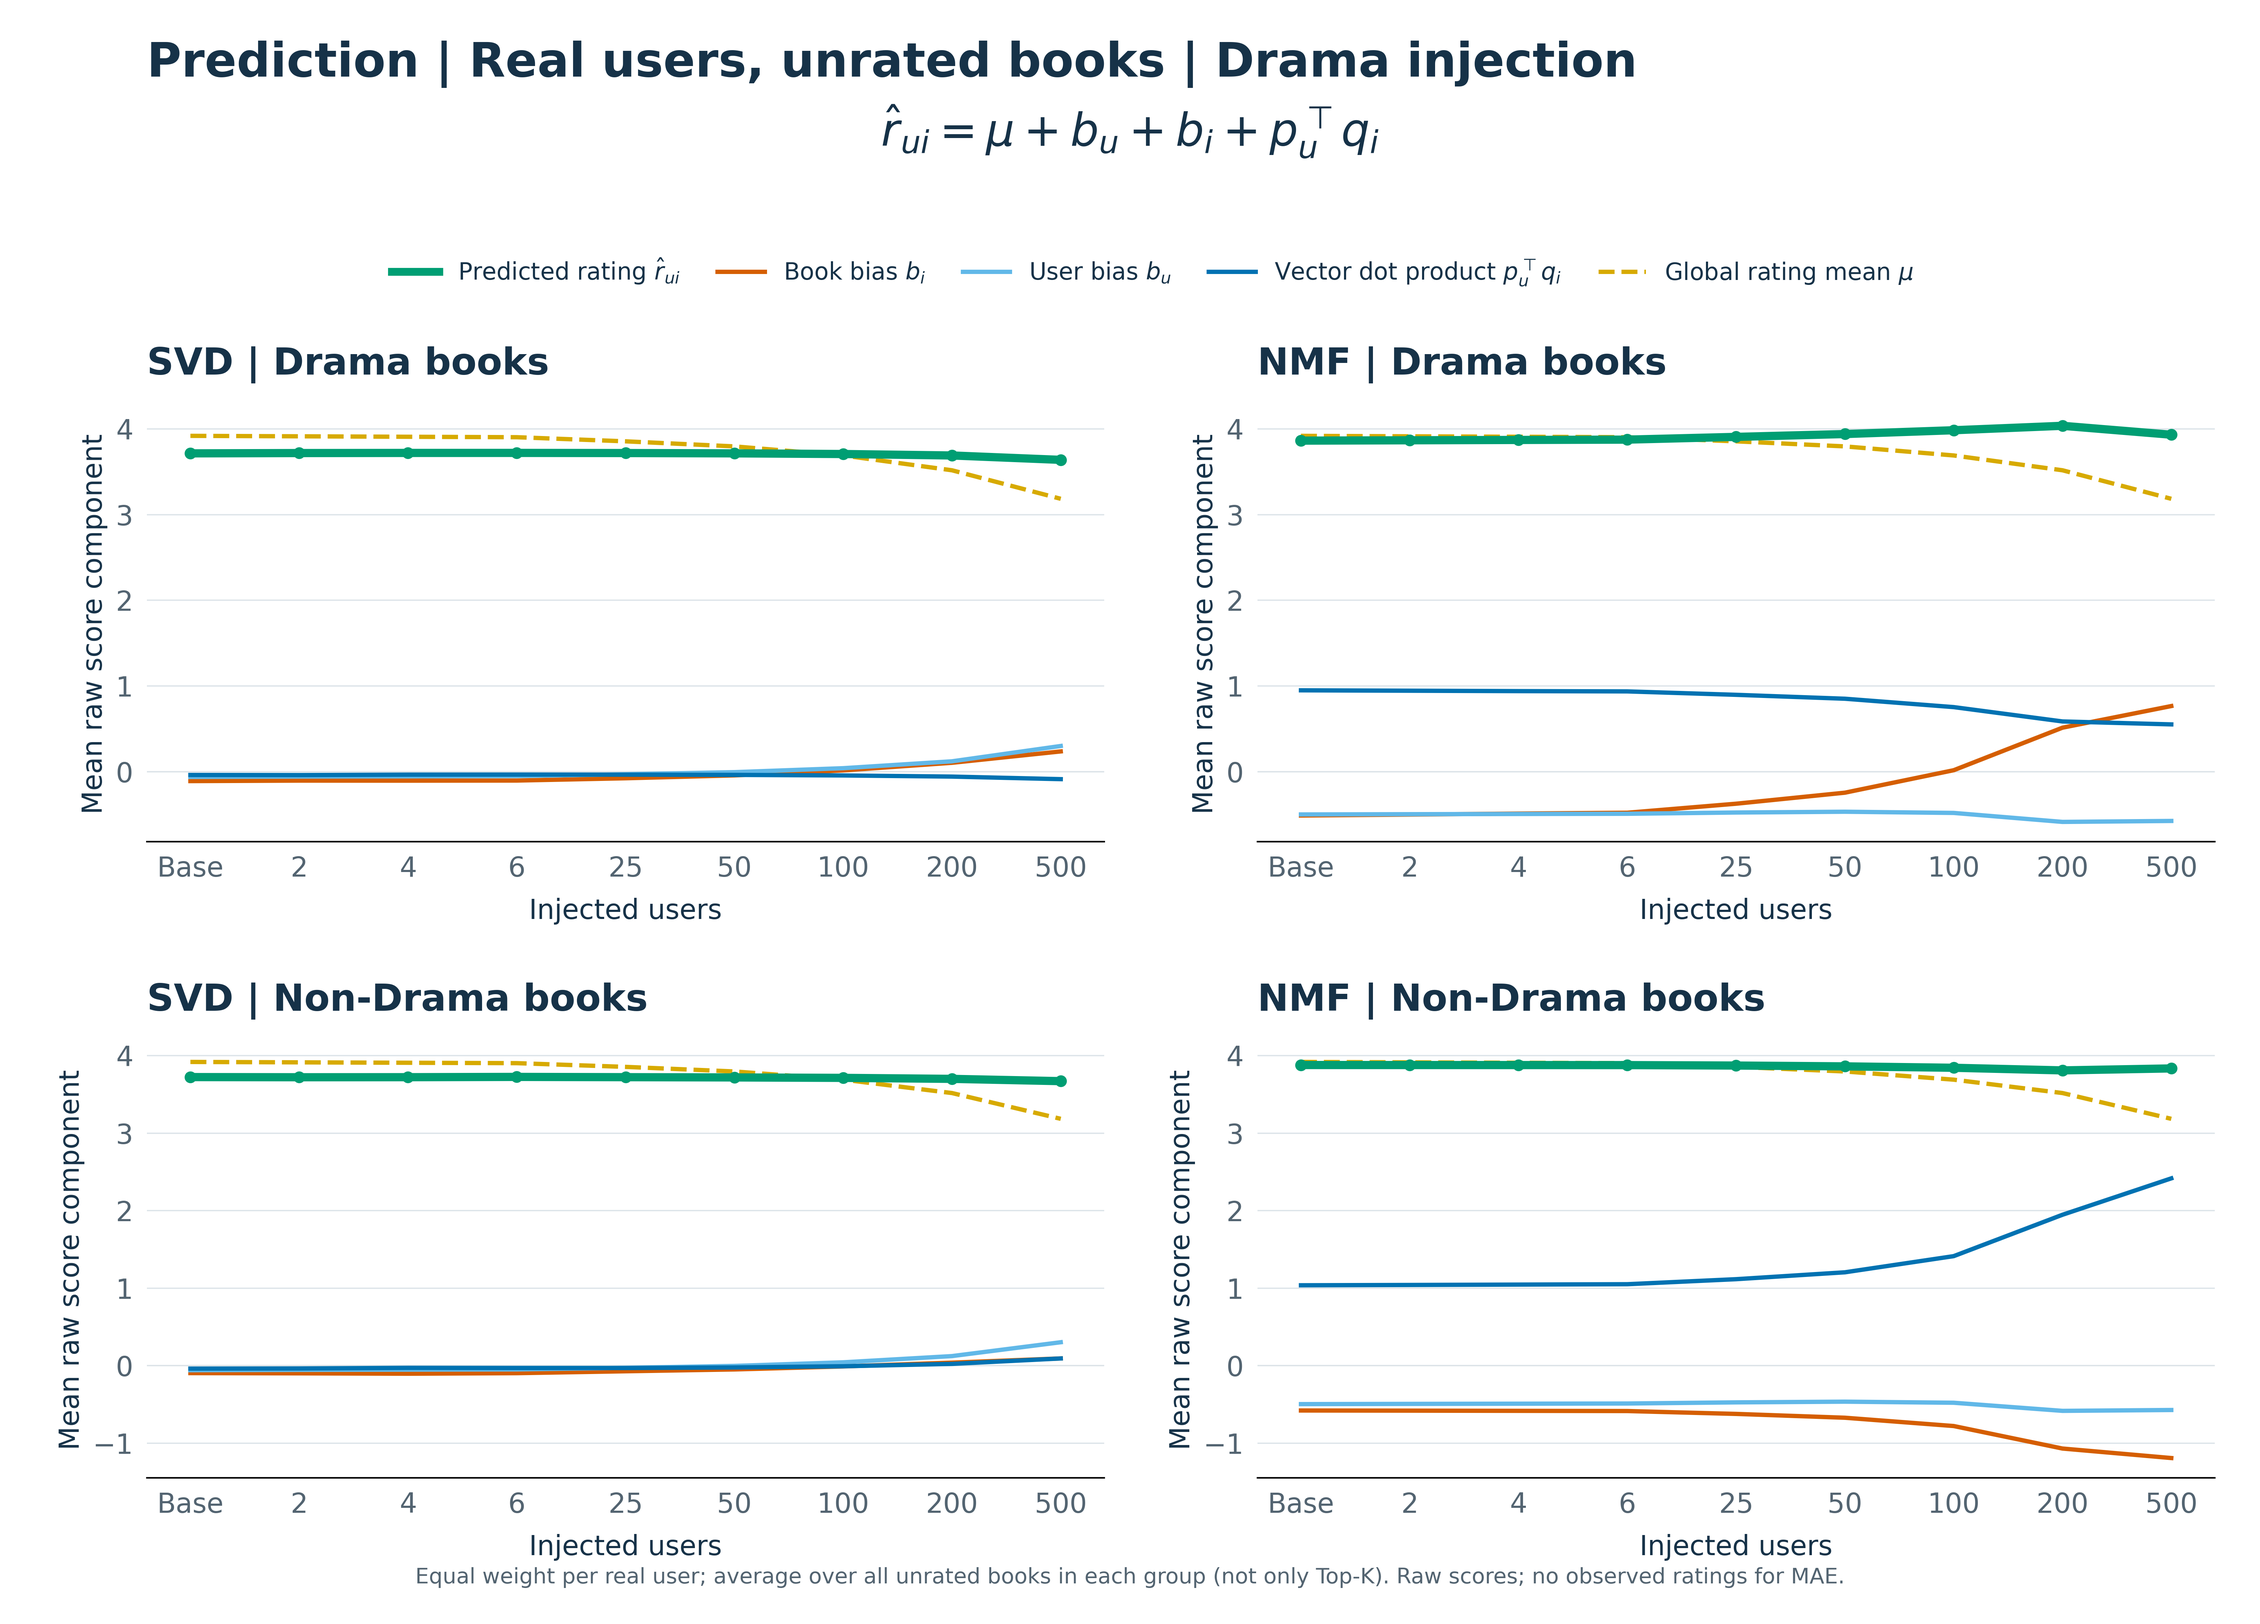
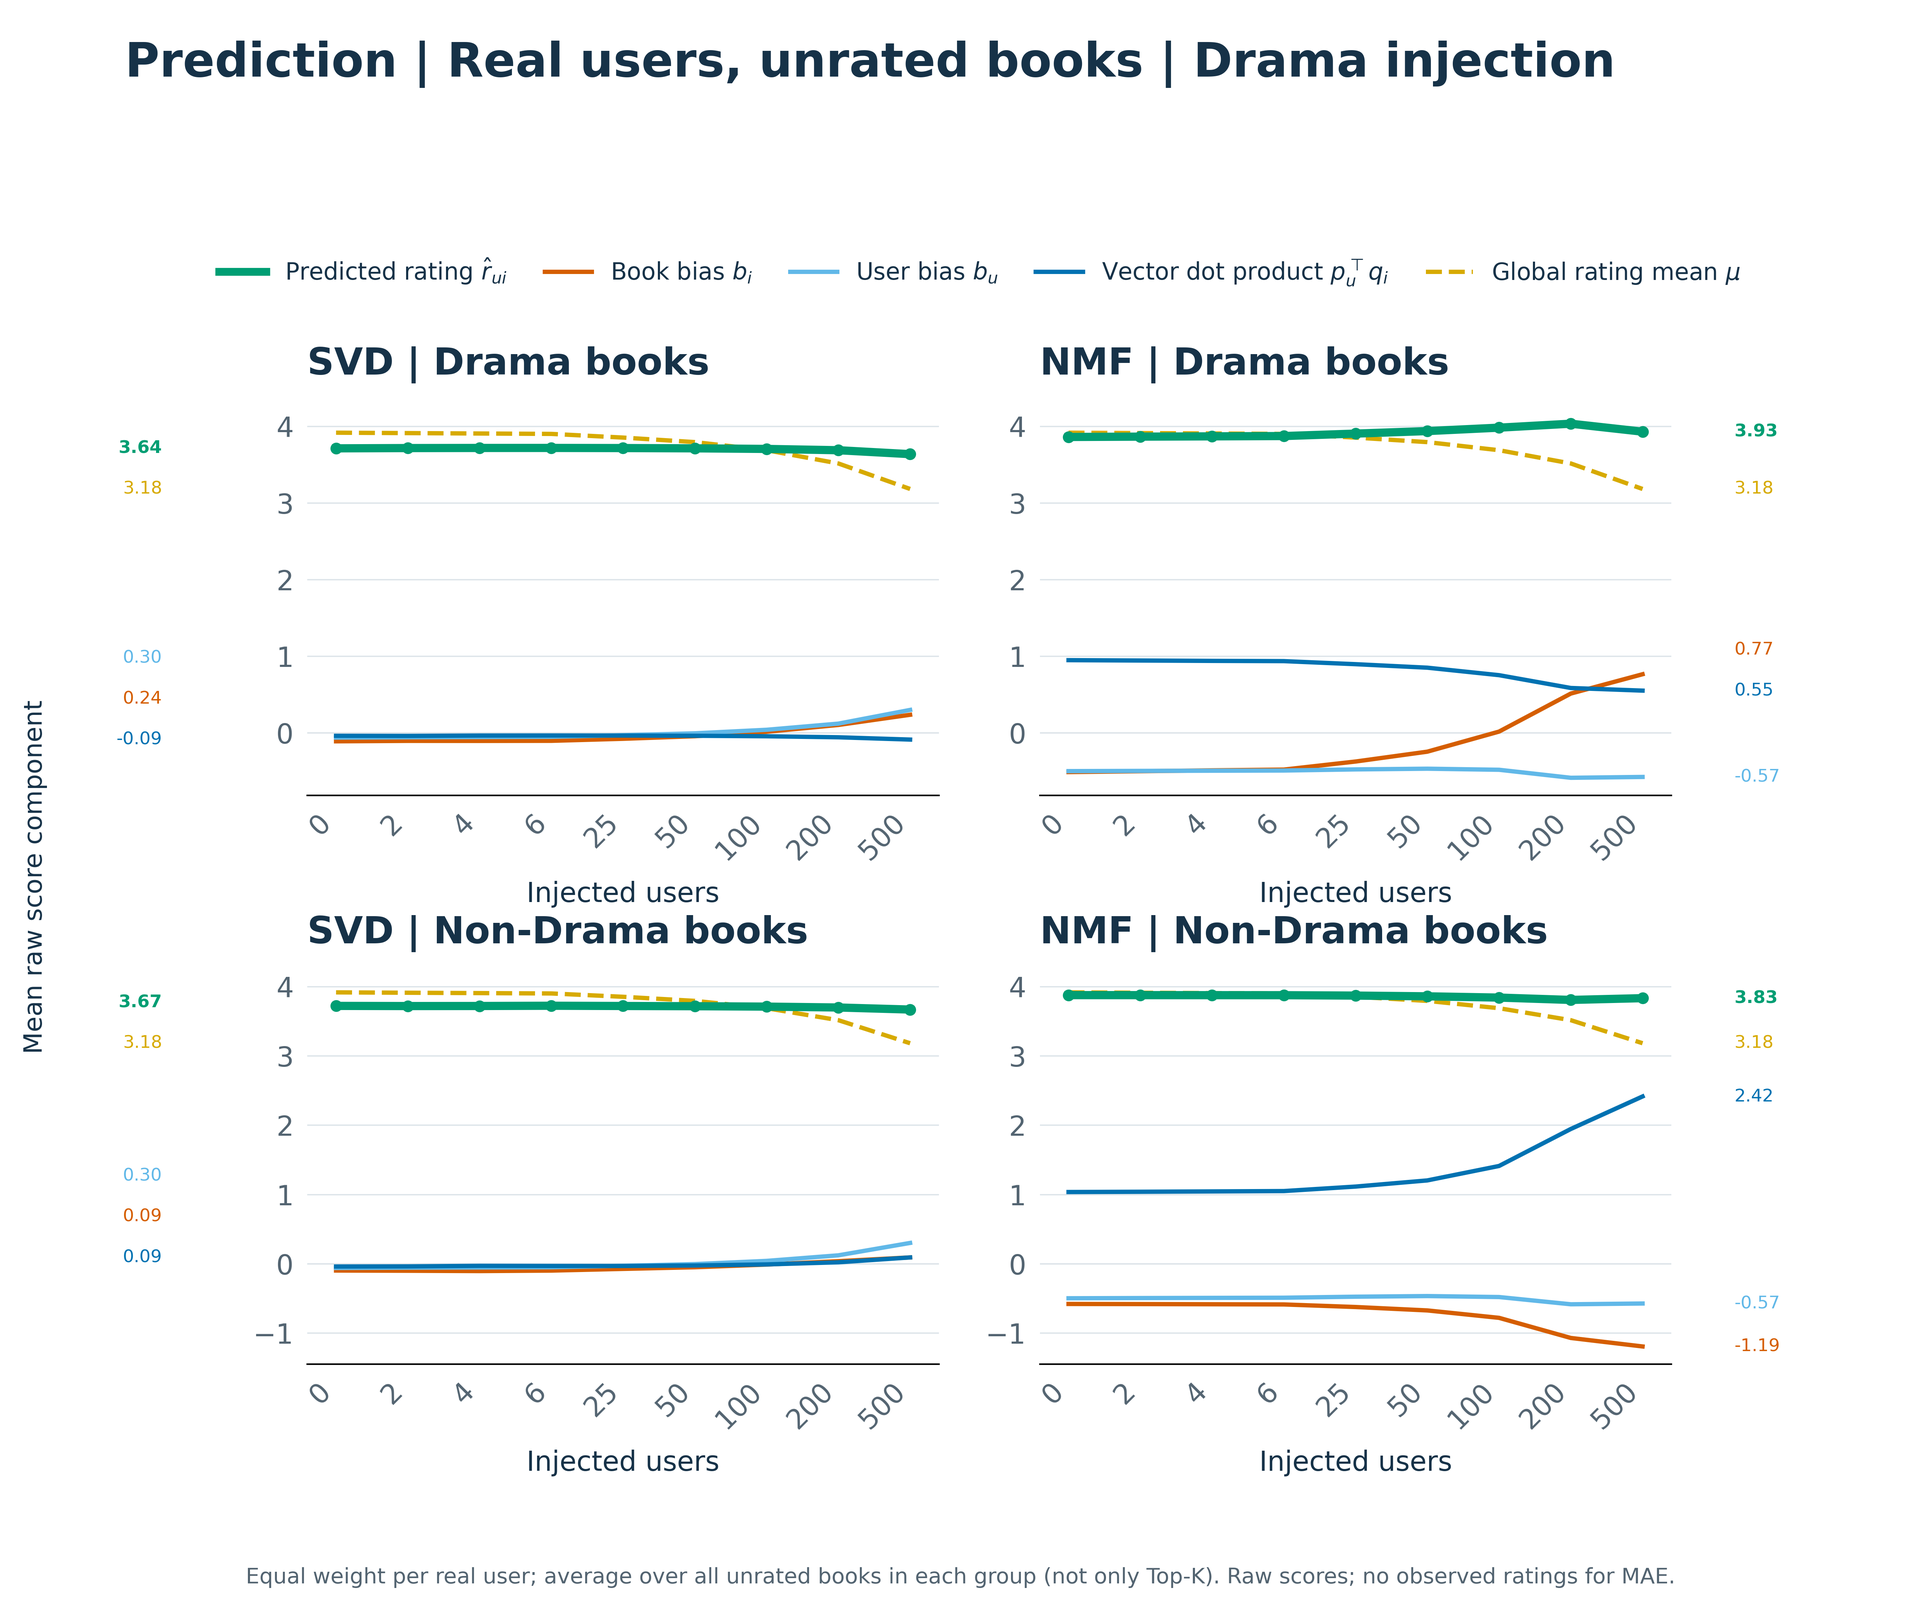
Apply compact labeled layout to Drama prediction figure

diff --git a/First_paper_material/notebook/build_genre_reviewer_figures.py b/First_paper_material/notebook/build_genre_reviewer_figures.py
@@ -41,9 +41,9 @@ def setup_small():
 def ticks(ns,model,bad):return [('Base' if n==0 else str(n))+('†' if model=='nmf' and n in bad else '') for n in ns]
 def warning(fig,bad,small):
  if bad:fig.text(.5,.014 if small else .005,'† NMF factor sign check failed at n = '+', '.join(map(str,bad))+'. Raw results retained.',ha='center',fontsize=5.6 if small else 9,color='#9D211C')
-def endpoint_labels(ax,d,col):
+def endpoint_labels(ax,d,col,fontsize=4.0):
  # Labels report the last dose; vertically separate close values without altering data.
- keys=['mu','mean_bi','mean_bu','mean_interaction','mean_prediction','mae']
+ keys=['mu','mean_bi','mean_bu','mean_interaction','mean_prediction']+(['mae'] if 'mae' in d and d.mae.notna().all() else [])
  vals=[float(d.iloc[-1][k]) for k in keys]
  lo,hi=ax.get_ylim();gap=(hi-lo)*.105
  order=sorted(range(len(vals)),key=lambda j:vals[j]);positions=[vals[j] for j in order]
@@ -57,7 +57,7 @@ def endpoint_labels(ax,d,col):
   if txt=='-0.00':txt='0.00'
   ax.annotate(txt,xy=(0 if col==0 else 1,vals[j]),xycoords=('axes fraction','data'),
    xytext=(x,y),textcoords=('axes fraction','data'),ha='right' if col==0 else 'left',
-   va='center',fontsize=4.0,fontweight='bold' if keys[j]=='mean_prediction' else 'normal',
+   va='center',fontsize=fontsize,fontweight='bold' if keys[j]=='mean_prediction' else 'normal',
    color=COLORS[keys[j]],annotation_clip=False,
    bbox=dict(facecolor='white',edgecolor='none',pad=.15))
 
@@ -83,16 +83,24 @@ def eight(f,genre,folder,ns,bad):
   box=outer[section].get_position(fig);fig.text(.10,box.y1+.048,'All users (real + synthetic)' if section==0 else 'Synthetic users only',ha='left',va='bottom',fontsize=8.2,fontweight='bold')
  handles=[Line2D([0],[0],color=COLORS[k],lw=1.65 if k=='mean_prediction' else 1,ls='--' if k=='mu' else '-',label=LABELS[k]) for k in COLORS];fig.legend(handles=handles,loc='upper center',bbox_to_anchor=(.53,.935),ncol=3,frameon=False,fontsize=6.8,columnspacing=1.7,handlelength=2.2,labelspacing=.55);warning(fig,bad,True);path=folder/f'training_{genre.lower()}_all_and_synthetic_8panel_paper.png';fig.savefig(path,dpi=600);plt.close(fig);return path
 
-def prediction(f,genre,folder,ns,bad):
+def prediction(f,genre,folder,ns,bad,compact=False):
  plt.rcParams.update({'font.family':'DejaVu Sans','font.size':14,'axes.labelsize':14,'xtick.labelsize':14,'ytick.labelsize':14,'axes.linewidth':.8,'axes.edgecolor':'black','axes.spines.top':False,'axes.spines.right':False,'axes.spines.left':False,'axes.titleweight':'bold','axes.labelcolor':'#163248','text.color':'#163248','xtick.color':'#536471','ytick.color':'#536471','figure.facecolor':'white','savefig.facecolor':'white'})
- fig,axs=plt.subplots(2,2,figsize=(16,11.5),sharey='row')
+ fig,axs=plt.subplots(2,2,figsize=(13.6 if compact else 16,11.5),sharey='row')
  for row,group in enumerate(['target','non_target']):
   for col,model in enumerate(['svd','nmf']):
    ax=axs[row,col];d=f[(f.view=='real_unseen_prediction')&(f.group==group)&(f.model==model)&f.n_fake.isin(ns)].sort_values('n_fake');assert d.n_fake.tolist()==ns;assert np.allclose(d.mean_prediction,d.mu+d.mean_bu+d.mean_bi+d.mean_interaction,atol=1e-10);x=np.arange(len(d))
    for key in ['mu','mean_bi','mean_bu','mean_interaction','mean_prediction']:ax.plot(x,d[key],color=COLORS[key],lw=4.2 if key=='mean_prediction' else 2.2,marker='o' if key=='mean_prediction' else None,ms=5,zorder=5 if key=='mean_prediction' else 3,ls='--' if key=='mu' else '-')
-   ax.axhline(0,color='#A6B2BB',lw=.7,zorder=1);ax.set_title(model.upper()+' | '+(genre+' books' if group=='target' else 'Non-'+genre+' books'),loc='left',pad=16,fontsize=19);ax.set_xticks(x,ticks(ns,model,bad),rotation=45 if len(ns)>9 else 0,ha='right' if len(ns)>9 else 'center');ax.set_xlabel('Injected users',labelpad=8);ax.set_ylabel('Mean raw score component');ax.grid(axis='y',color='#DEE5EA',lw=.7);ax.tick_params(length=0,pad=7,labelleft=True)
- fig.suptitle('Prediction | Real users, unrated books | '+genre+' injection',x=.065,ha='left',y=.975,fontsize=24,fontweight='bold');fig.text(.5,.91,r'$\hat r_{ui}=\mu+b_u+b_i+p_u^\top q_i$',ha='center',fontsize=23)
- names={'mean_prediction':r'Predicted rating $\hat r_{ui}$','mean_bi':r'Book bias $b_i$','mean_bu':r'User bias $b_u$','mean_interaction':r'Vector dot product $p_u^\top q_i$','mu':r'Global rating mean $\mu$'};handles=[Line2D([0],[0],color=COLORS[k],lw=4 if k=='mean_prediction' else 2.2,ls='--' if k=='mu' else '-',label=names[k]) for k in names];fig.legend(handles=handles,loc='upper center',bbox_to_anchor=(.51,.855),ncol=5,frameon=False,fontsize=12,columnspacing=1.6);fig.text(.5,.035 if bad else .025,'Equal weight per real user; average over all unrated books in each group (not only Top-K). Raw scores; no observed ratings for MAE.',ha='center',fontsize=11,color='#536471');warning(fig,bad,False);fig.subplots_adjust(left=.065,right=.98,top=.75,bottom=.14 if len(ns)>9 else .09,wspace=.16,hspace=.56 if len(ns)>9 else .46);path=folder/f'prediction_real_users_{genre.lower()}_non_{genre.lower()}_4panel.png';fig.savefig(path,dpi=400);plt.close(fig);return path
+   ax.axhline(0,color='#A6B2BB',lw=.7,zorder=1);ax.set_title(model.upper()+' | '+(genre+' books' if group=='target' else 'Non-'+genre+' books'),loc='left',pad=16,fontsize=19);ax.set_xticks(x,[str(n) for n in ns] if compact else ticks(ns,model,bad),rotation=45 if compact or len(ns)>9 else 0,ha='right' if compact or len(ns)>9 else 'center');ax.set_xlabel('Injected users',labelpad=8);ax.set_ylabel('' if compact else 'Mean raw score component');ax.grid(axis='y',color='#DEE5EA',lw=.7);ax.tick_params(length=0,pad=7,labelleft=True)
+ if compact:
+  for row,group in enumerate(['target','non_target']):
+   for col,model in enumerate(['svd','nmf']):
+    d=f[(f.view=='real_unseen_prediction')&(f.group==group)&(f.model==model)&f.n_fake.isin(ns)].sort_values('n_fake')
+    # Prediction has no observed ratings and therefore no MAE.
+    endpoint_labels(axs[row,col],d,col,fontsize=9)
+  fig.text(.012,.46,'Mean raw score component',rotation=90,va='center',fontsize=13)
+ fig.suptitle('Prediction | Real users, unrated books | '+genre+' injection',x=.065,ha='left',y=.975,fontsize=24,fontweight='bold')
+ if not compact:fig.text(.5,.91,r'$\hat r_{ui}=\mu+b_u+b_i+p_u^\top q_i$',ha='center',fontsize=23)
+ names={'mean_prediction':r'Predicted rating $\hat r_{ui}$','mean_bi':r'Book bias $b_i$','mean_bu':r'User bias $b_u$','mean_interaction':r'Vector dot product $p_u^\top q_i$','mu':r'Global rating mean $\mu$'};handles=[Line2D([0],[0],color=COLORS[k],lw=4 if k=='mean_prediction' else 2.2,ls='--' if k=='mu' else '-',label=names[k]) for k in names];fig.legend(handles=handles,loc='upper center',bbox_to_anchor=(.51,.855),ncol=5,frameon=False,fontsize=12,columnspacing=1.6);fig.text(.5,.035 if bad else .025,'Equal weight per real user; average over all unrated books in each group (not only Top-K). Raw scores; no observed ratings for MAE.',ha='center',fontsize=11,color='#536471');warning(fig,bad,False);fig.subplots_adjust(left=.16 if compact else .065,right=.87 if compact else .98,top=.75,bottom=.16 if compact else (.14 if len(ns)>9 else .09),wspace=.16,hspace=.56 if len(ns)>9 else .46);path=folder/f'prediction_real_users_{genre.lower()}_non_{genre.lower()}_4panel.png';fig.savefig(path,dpi=400);plt.close(fig);return path
 
 if __name__=='__main__':
  ap=argparse.ArgumentParser();ap.add_argument('--compute-only',action='store_true');ap.add_argument('--max-count',type=int,default=500);args=ap.parse_args();compute_drama()
@@ -102,5 +110,5 @@ if __name__=='__main__':
   assert folder.is_dir();f=pd.read_csv(source);ns=sorted(f.n_fake.unique().tolist());ns=[n for n in ns if args.max_count is None or n<=args.max_count]
   if genre=='Adventure':bad=[r['n_fake'] for r in json.loads((NB/'adventure_analysis_status.json').read_text())['nonnegative_constraint_failures']]
   else:bad=[r['n_fake'] for r in json.loads((NB/'drama_reviewer_components_validation.json').read_text())['checkpoints'] if not r['nmf_nonnegative_constraint_ok']]
-  bad=sorted(set(bad)&set(ns));paths=[eight(f,genre,folder,ns,bad),prediction(f,genre,folder,ns,bad)];records.append(dict(genre=genre,folder=str(folder),source=str(source),source_sha256=hashlib.sha256(source.read_bytes()).hexdigest(),counts=ns,images=list(map(str,paths)),nonnegative_constraint_failures=bad));print('FIGURES COMPLETE',genre,ns,flush=True)
+  bad=sorted(set(bad)&set(ns));paths=[eight(f,genre,folder,ns,bad),prediction(f,genre,folder,ns,bad,compact=(genre=='Drama'))];records.append(dict(genre=genre,folder=str(folder),source=str(source),source_sha256=hashlib.sha256(source.read_bytes()).hexdigest(),counts=ns,images=list(map(str,paths)),nonnegative_constraint_failures=bad));print('FIGURES COMPLETE',genre,ns,flush=True)
  (NB/'genre_reviewer_figures_manifest.json').write_text(json.dumps(dict(status='complete',no_retraining=True,raw_components_preserved=True,reference_folder=str(OUT/'thriller'),figures=records,completed=time.time()),indent=2))
